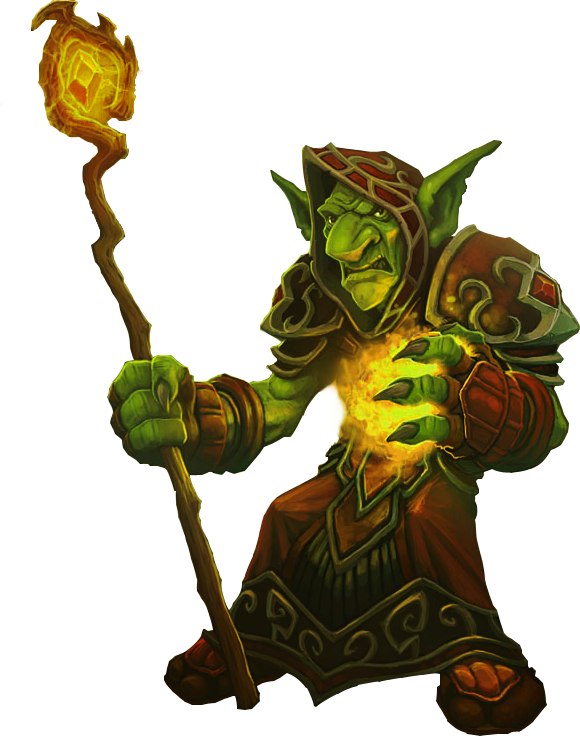
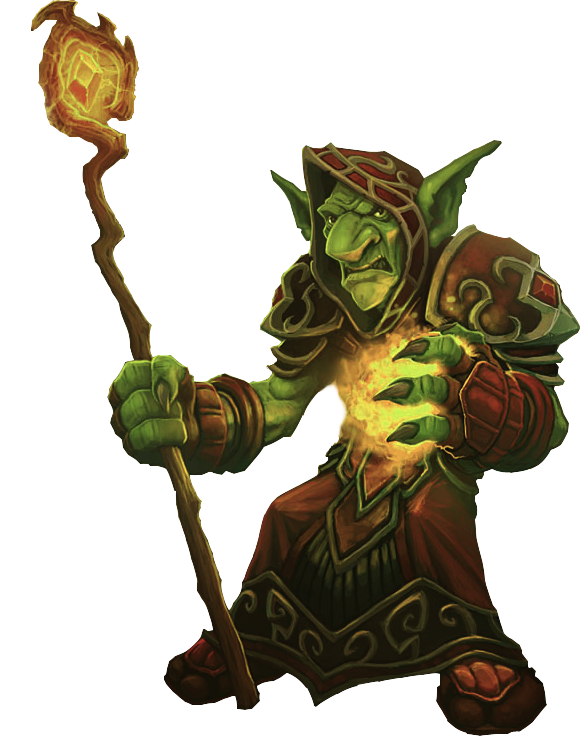
Fixes: - Enemies do less damage, allowing players to have a more fair chance of winning - Goblin Warcry is now dropped by Goblin Brutes - Background has been added to combat - Player and enemy assets have been updated to fit in better with one another

diff --git a/Game/static/js/combat.js b/Game/static/js/combat.js
@@ -1,4 +1,4 @@
-const baseAtkDamage = 20;
+const baseAtkDamage = 10;
 const maxPlayerHealth = 100;
 
 var items; //Items database
@@ -241,7 +241,7 @@ async function playerTurn(enemyIndex) {
     
     updateLog(player.get('username'), lastChoice);
     if (isAtk) {
-        damageAmount = calculateAttack(player.get('atk'), items[moveIndex].atk, enemies[enemyIndex].def);
+        damageAmount = calculateAttack(player.get('atk'), items[moveIndex].atk, enemies[enemyIndex].def, false);
         enemies[enemyIndex].hp -= damageAmount;
         updateHealth(enemyIndex);
     }
@@ -292,7 +292,7 @@ async function enemyTurn(index, moveIndex) {
         updateLog(enemies[index].name, items[moveIndex].name);
         //Attack based moves (damage = (atk_stat * atk_buf_of_move) / target_def
         if (isAtk) {
-            damageAmount = calculateAttack(enemies[index].atk, items[moveIndex].atk, player.get('def'));
+            damageAmount = calculateAttack(enemies[index].atk, items[moveIndex].atk, player.get('def'), true);
             player.set('hp', player.get('hp') - damageAmount);
             updateHealth(-1);
         }
@@ -328,9 +328,14 @@ function getEnemyChoices() {
 
 //calculateAttack()
 //Returns damage value based on parameters
-function calculateAttack(attackerAtk, moveAtk, targetDef) {
+function calculateAttack(attackerAtk, moveAtk, targetDef , isEnemy) {
     console.log("(" + attackerAtk + " * " + moveAtk + ")/" + targetDef);
-    return parseInt(((attackerAtk * moveAtk)/(targetDef)) * baseAtkDamage);
+    if (isEnemy) {
+        return parseInt(((attackerAtk * moveAtk)/(targetDef)) * (baseAtkDamage/2));
+    }
+    else {
+        return parseInt(((attackerAtk * moveAtk)/(targetDef)) * (baseAtkDamage));
+    }
 }
 
 //checkWinOrLoss()

diff --git a/Game/static/css/combat.css b/Game/static/css/combat.css
@@ -16,9 +16,9 @@
 
 
 body{
-    background-image:url('/static/combatBackground.png');
-    background-repeat: no-repeat;
-    background: #070F2B;
+    background-image: url("/static/combatBackground.png");
+    background-size: cover;
+    z-index: 0;
     color: #9290C3;
     font-family: 'Breathe Fire';
     font-size: 20px;

diff --git a/Game/enemies_database_load.py b/Game/enemies_database_load.py
@@ -18,7 +18,7 @@ cur.execute("""CREATE TABLE enemies (
 
 enemy_list = [
     ("Goblin", "1:2 2:2 3:1", "/static/assets/characters/goblin.png" , 30, 1, 1, 10),
-    ("Goblin Brute", "3:1", "/static/assets/characters/goblin_brute.jpg", 60, 1.5, .5, 5),
+    ("Goblin Brute", "3:1", "/static/assets/characters/goblin_brute.png", 60, 1.5, .5, 5),
     ("Goblin Mage", "2:1 3:1", "/static/assets/characters/goblin_mage.png", 30, 1, .5, 5),
 ]
 cur.executemany("INSERT INTO enemies VALUES (?, ?, ?, ?, ?, ?, ?)", enemy_list)
@@ -69,7 +69,6 @@ cur.execute("""CREATE TABLE enemy_drops(
 enemy_drop_list = [
     #Goblin's item/move drops
     ("Goblin", "Goblin Blood Vial", 1),
-    ("Goblin", "Goblin Warcry", 1),
     #Goblin Brute's item/move drops
     ("Goblin Brute", "Goblin Blood Vial", 1),
     ("Goblin Brute", "Goblin Warcry", 1),
@@ -77,7 +76,6 @@ enemy_drop_list = [
     
     #Goblin Mage's item/move drops
     ("Goblin Mage", "Herbal Tonic", 1),
-    ("Goblin Mage", "Goblin Spellshield", 1)
 ]
 
 cur.executemany("INSERT INTO enemy_drops VALUES (?, ?, ?)", enemy_drop_list)
